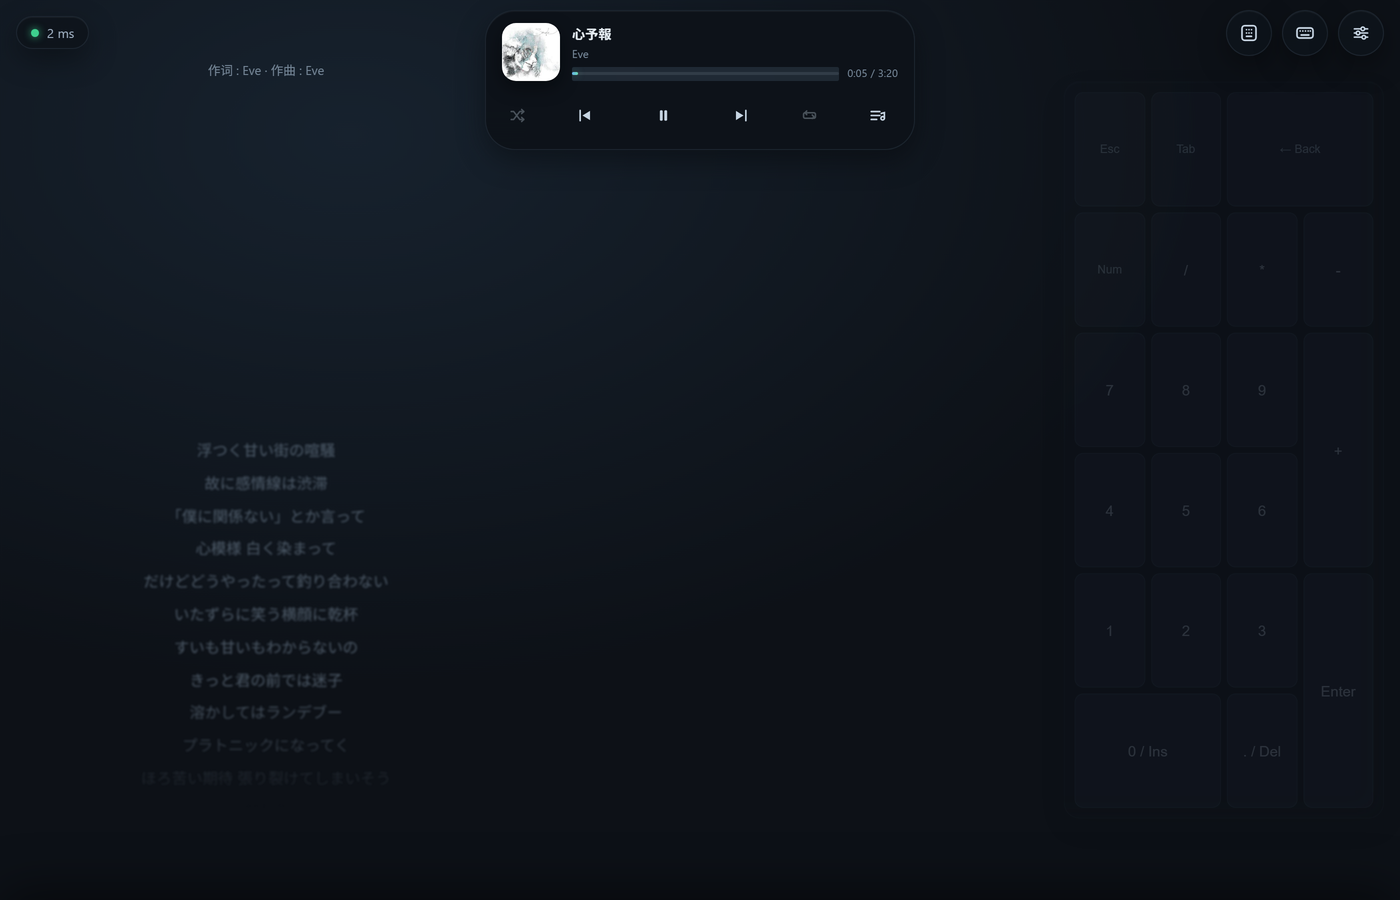
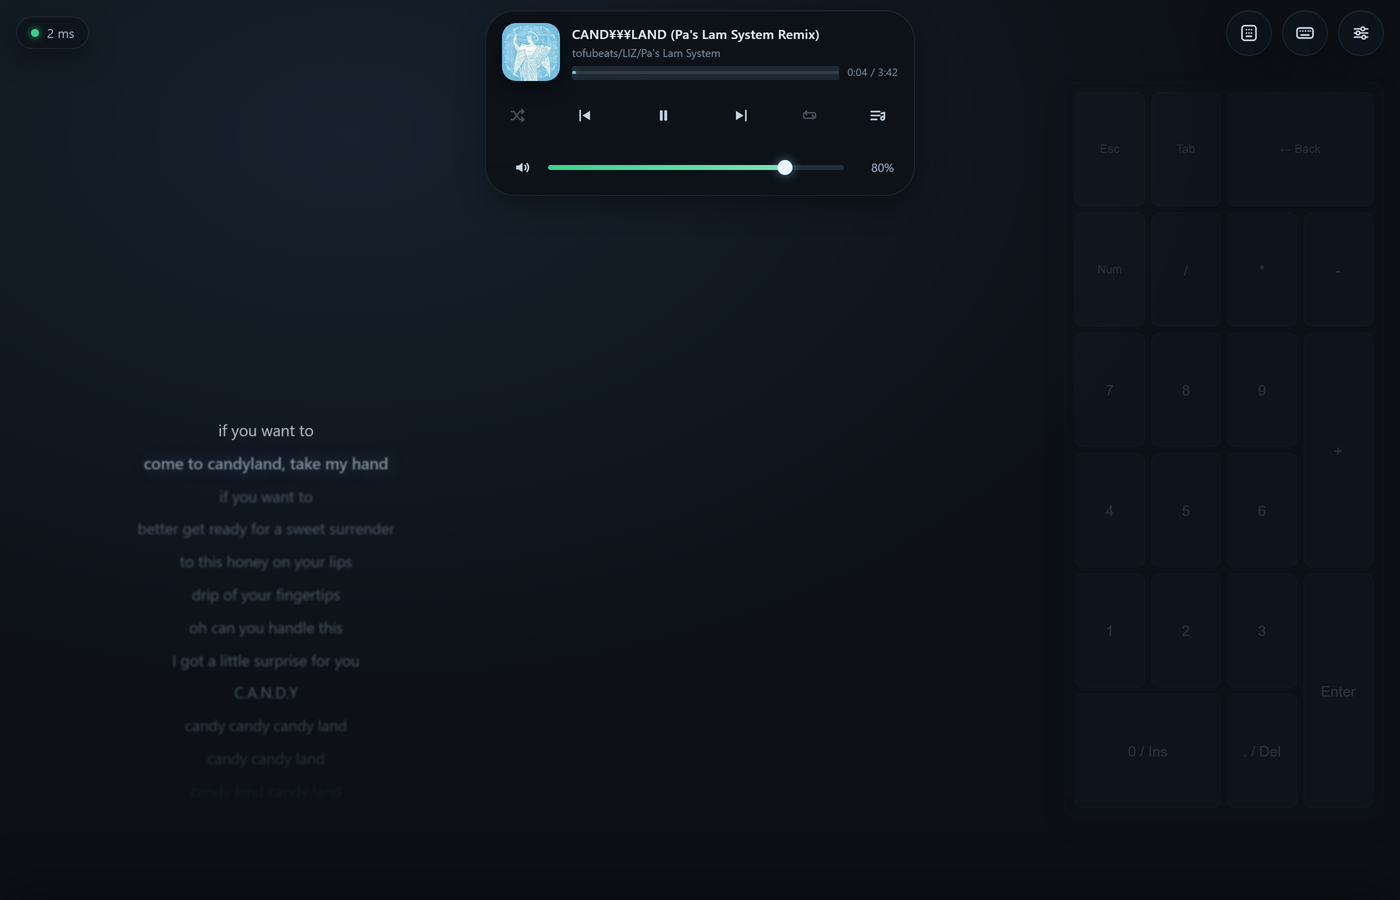
feat: 系统音量控制
媒体胶囊展开后多一行音量：
- 左边喇叭图标点一下静音/取消静音，静音时图标变橙色并打叉
- 中间滑条按住拖动直接改系统音量，松手以服务端实际值为准
- 右边显示百分比，静音时显示「静音」

实现：
- 服务端用 pycaw 的 IAudioEndpointVolume 读写主音量
- HTTP `/volume?k=[&v=0.42][&mute=1]`，WS `{t:"vol", v}` / `{t:"vol", mute}`（拖动走 WS，省往返）
- 从 0 往上拉会自动取消静音
- 客户端每 5 秒拉一次，用系统面板或键盘改音量这边也会跟上
- 拿不到 pycaw 时整行隐藏，不会出现"点了没反应"

实测：
  初始 22% → 拖到 80%（本地和服务器都是 0.8）→ 静音（UI 显示「静音」，服务器 muted:true）
  → 取消静音回到 80%，控制台无报错

顺手更新 README（特性列表、胶囊说明）和主图（现在截图里有音量条）。

diff --git a/web/app.js b/web/app.js
@@ -39,6 +39,10 @@
     ws.onerror = () => {};
     ws.onmessage = (ev) => {
       let d; try { d = JSON.parse(ev.data); } catch (_) { return; }
+      if (d.t === 'vol') {
+        applyVolume(d);
+        return;
+      }
       if (d.t === 'pong') {
         const rtt = Math.round(performance.now() - d.ts);
         rtts.push(rtt);
@@ -524,6 +528,8 @@
   }
   pollMedia();
   setInterval(pollMedia, 3000);
+  fetchVolume();
+  setInterval(fetchVolume, 5000);   // 用键盘或系统面板调了音量，这边也能跟上
   // 切到后台时定时器会被节流，回来立刻补一次，别让界面停在旧状态
   document.addEventListener('visibilitychange', () => {
     if (document.hidden) return;
@@ -792,6 +798,110 @@
       offBadge.textContent = v === 0 ? '' : '歌词偏移 ' + txt;
       offBadge.classList.toggle('on', v !== 0);
     }
+  }
+
+  // ---------------- 系统音量 ----------------
+  const volRow = document.getElementById('volRow');
+  const volBar = document.getElementById('volBar');
+  const volFill = document.getElementById('volFill');
+  const volKnob = document.getElementById('volKnob');
+  const volPct = document.getElementById('volPct');
+  const volMute = document.getElementById('volMute');
+  let volLevel = 0.5, volMuted = false, volKnown = false;
+
+  function applyVolume(d) {
+    if (!d) return;
+    if (d.ok === false) {           // 没装 pycaw：整行藏起来
+      volKnown = false;
+      if (volRow) volRow.classList.add('hide');
+      return;
+    }
+    volKnown = true;
+    if (typeof d.level === 'number') volLevel = Math.max(0, Math.min(1, d.level));
+    if (typeof d.muted === 'boolean') volMuted = d.muted;
+    paintVolume();
+  }
+
+  function paintVolume() {
+    if (!volRow) return;
+    volRow.classList.toggle('hide', !volKnown);
+    if (!volKnown) return;
+    const pct = Math.round((volMuted ? 0 : volLevel) * 100);
+    const w = (volLevel * 100) + '%';
+    volFill.style.width = w;
+    volKnob.style.left = w;
+    volPct.textContent = volMuted ? '静音' : pct + '%';
+    volMute.classList.toggle('muted', volMuted);
+    document.getElementById('volX').style.display = volMuted ? '' : 'none';
+    document.getElementById('volWave1').style.display = volMuted ? 'none' : '';
+    document.getElementById('volWave2').style.display = volMuted ? 'none' : '';
+  }
+
+  async function fetchVolume() {
+    try {
+      const r = await fetch(`/volume?k=${encodeURIComponent(KEY)}`, { cache: 'no-store' });
+      applyVolume(await r.json());
+    } catch (_) { /* 网络抖动就算了，下次轮询再来 */ }
+  }
+
+  // 拖动：本地先跟手，再按 60ms 节流发 WS
+  let volDragging = false, volLastSend = 0, volPending = -1;
+  function volRatio(e) {
+    const r = volBar.getBoundingClientRect();
+    return Math.max(0, Math.min(1, (e.clientX - r.left) / r.width));
+  }
+  function volApplyLocal(v) {
+    volLevel = v;
+    volMuted = false;
+    paintVolume();
+  }
+  function volSend(force) {
+    const now = performance.now();
+    if (!force && now - volLastSend < 60) return;
+    if (volPending < 0) return;
+    volLastSend = now;
+    send({ t: 'vol', v: volPending, mute: false });
+    volPending = -1;
+  }
+  if (volBar) {
+    volBar.addEventListener('pointerdown', (e) => {
+      if (!volKnown) return;
+      volDragging = true;
+      volBar.classList.add('dragging');
+      try { volBar.setPointerCapture(e.pointerId); } catch (_) {}
+      const v = volRatio(e);
+      volApplyLocal(v);
+      volPending = v;
+      volSend(true);
+      e.preventDefault();
+    });
+    volBar.addEventListener('pointermove', (e) => {
+      if (!volDragging) return;
+      const v = volRatio(e);
+      volApplyLocal(v);
+      volPending = v;
+      volSend(false);
+    });
+    const endDrag = (e) => {
+      if (!volDragging) return;
+      volDragging = false;
+      volBar.classList.remove('dragging');
+      if (volPending >= 0) volSend(true);
+      setTimeout(fetchVolume, 120);       // 以服务端实际值为准
+      e.preventDefault();
+    };
+    volBar.addEventListener('pointerup', endDrag);
+    volBar.addEventListener('pointercancel', endDrag);
+  }
+  if (volMute) {
+    volMute.addEventListener('click', (e) => {
+      e.stopPropagation();
+      if (!volKnown) return;
+      volMuted = !volMuted;
+      paintVolume();
+      send({ t: 'vol', mute: volMuted });
+      setTimeout(fetchVolume, 150);
+    });
   }
 
   // 手动微调歌词进度：打开页面时歌已经在播一半，就靠这个对齐

diff --git a/web/app.css b/web/app.css
@@ -190,7 +190,7 @@
 
   /* 小屏时展开态收紧一点，避免贴边 */
   @media (max-width: 640px) {
-    #island.exp { width: 94vw; height: 88px; padding-right: 6px; }
+    #island.exp { width: 94vw; height: 128px; padding-right: 6px; }
     .isle-cover.big { width: 52px; height: 52px; }
   }
 
@@ -264,7 +264,49 @@
 
   /* ---------------- 展开态：两行迷你播放器 ---------------- */
   #island.exp {
-    width: min(94vw, 430px); height: 140px; border-radius: 30px;
+    width: min(94vw, 430px); height: 186px; border-radius: 30px;
+  }
+
+  /* 展开态的音量条 */
+  .isle-vol {
+    display: flex; align-items: center; gap: 10px;
+    width: 100%; padding: 0 4px; margin-top: 2px;
+  }
+  .isle-vol.hide { display: none; }
+  .volmute {
+    width: 32px; height: 32px; flex: none; border-radius: 50%; padding: 0;
+    display: grid; place-items: center;
+    background: transparent; border: none; color: #c7d5e3;
+    transition: color .18s ease, transform .18s var(--ease-spring);
+  }
+  .volmute svg { width: 19px; height: 19px; }
+  .volmute:active { transform: scale(.86); }
+  .volmute.muted { color: #ff9f6e; }
+  /* 滑条本体：细轨 + 填充 + 圆点，触摸目标做高一点好按住 */
+  .volbar {
+    position: relative; flex: 1; height: 30px;
+    display: flex; align-items: center;
+    touch-action: none; cursor: pointer;
+  }
+  .volbar::before {
+    content: ''; position: absolute; left: 0; right: 0; height: 5px;
+    border-radius: 3px; background: rgba(120, 150, 180, .22);
+  }
+  #volFill {
+    position: absolute; left: 0; height: 5px; border-radius: 3px;
+    background: linear-gradient(90deg, #3ecf8e, #7fe0b4);
+    transition: width .12s linear;
+  }
+  #volKnob {
+    position: absolute; width: 15px; height: 15px; border-radius: 50%;
+    background: #eaf6ff; transform: translateX(-50%);
+    box-shadow: 0 0 10px rgba(130, 200, 255, .55);
+    transition: left .12s linear;
+  }
+  .volbar.dragging #volKnob { box-shadow: 0 0 16px rgba(130, 220, 255, .85); }
+  .volpct {
+    flex: none; min-width: 40px; text-align: right;
+    font-size: 12px; color: #9fb0c2; font-variant-numeric: tabular-nums;
   }
   .isle-full {
     flex-direction: column; justify-content: center; align-items: stretch;

diff --git a/web/index.html b/web/index.html
@@ -49,6 +49,18 @@
       <button class="islemode unsupported" id="modeRepeat" aria-label="循环播放"><svg viewBox="0 0 24 24" fill="none" stroke="currentColor" stroke-width="1.9" stroke-linecap="round" stroke-linejoin="round" aria-hidden="true"><path d="M6.5 8.5h11a2 2 0 0 1 2 2v3a2 2 0 0 1-2 2h-11a2 2 0 0 1-2-2v-3a2 2 0 0 1 2-2z"/><path d="M8.5 6.2 6.3 8.5l2.2 2.3"/><path d="M15.5 15.8l2.2-2.2-2.2-2.3"/></svg></button>
       <button class="islectl" id="plBtn" aria-label="歌单"><svg viewBox="0 0 24 24" fill="none" stroke="currentColor" stroke-width="2" stroke-linecap="round" aria-hidden="true"><path d="M4 7h11M4 12h11M4 17h7"/><circle cx="18.5" cy="15.5" r="2.2"/><path d="M20.7 15.5V8.4l-4 1"/></svg></button>
     </div>
+    <div class="isle-vol" id="volRow">
+      <button class="volmute" id="volMute" aria-label="静音">
+        <svg viewBox="0 0 24 24" fill="none" stroke="currentColor" stroke-width="1.9" stroke-linecap="round" stroke-linejoin="round" aria-hidden="true">
+          <path d="M4 9.5h3.2L12 6v12l-4.8-3.5H4z" fill="currentColor" stroke="none"/>
+          <path id="volWave1" d="M15.2 9.2a4 4 0 0 1 0 5.6"/>
+          <path id="volWave2" d="M17.6 7a7.4 7.4 0 0 1 0 10"/>
+          <path id="volX" d="M15.4 9.4l4.4 5.2M19.8 9.4l-4.4 5.2" style="display:none"/>
+        </svg>
+      </button>
+      <div class="volbar" id="volBar"><i id="volFill"></i><b id="volKnob"></b></div>
+      <span class="volpct" id="volPct">—</span>
+    </div>
   </div>
 </div>
 

diff --git a/server.py b/server.py
@@ -279,6 +279,17 @@ def handle_message(msg):
             act_tap(VK["back"])
     elif t == "cfg":
         _state["abs"] = bool(msg.get("abs", False))
+    elif t == "vol":
+        lv = msg.get("v")
+        mu = msg.get("mute")
+        ok = set_speaker_volume(
+            None if lv is None else float(lv),
+            None if mu is None else bool(mu))
+        level, muted = speaker_volume()
+        out = volume_payload(level, muted)
+        out["t"] = "vol"
+        out["ok"] = bool(ok and out.get("ok"))
+        return out
     elif t == "ping":
         return {"t": "pong", "ts": msg.get("ts", 0)}
     return None
@@ -766,6 +777,42 @@ def _clock_tick(key, playing):
         return _CLOCK["pos"]
 
 
+def speaker_volume():
+    """读系统主音量。返回 (0~1 的音量, 是否静音)；拿不到返回 (None, None)。"""
+    _ensure_com()
+    try:
+        from pycaw.pycaw import AudioUtilities
+        ev = AudioUtilities.GetSpeakers().EndpointVolume
+        return float(ev.GetMasterVolumeLevelScalar()), bool(ev.GetMute())
+    except Exception:
+        return None, None
+
+
+def set_speaker_volume(level=None, muted=None):
+    """设置系统主音量/静音。返回是否成功。"""
+    _ensure_com()
+    try:
+        from pycaw.pycaw import AudioUtilities
+        ev = AudioUtilities.GetSpeakers().EndpointVolume
+        if level is not None:
+            level = max(0.0, min(1.0, float(level)))
+            ev.SetMasterVolumeLevelScalar(level, None)
+            # 从 0 往上拉就直接取消静音，符合一般直觉
+            if level > 0.001 and ev.GetMute():
+                ev.SetMute(0, None)
+        if muted is not None:
+            ev.SetMute(1 if muted else 0, None)
+        return True
+    except Exception:
+        return False
+
+
+def volume_payload(level, muted):
+    if level is None:
+        return {"ok": False, "reason": "no-pycaw"}
+    return {"ok": True, "level": round(level, 3), "muted": bool(muted)}
+
+
 def query_now():
     """只回答「现在放的是哪首、在不在放」，不碰网络，够快。"""
     now = time.time()
@@ -1142,6 +1189,31 @@ class Handler(socketserver.BaseRequestHandler):
                     self._http(sock, 403, b"{}", "application/json")
                     return
                 body = json.dumps(query_now(), ensure_ascii=False).encode("utf-8")
+                self._http(sock, 200, body, "application/json; charset=utf-8")
+                return
+
+            if method == "GET" and path == "/volume":
+                if not self._key_ok(key, self.client_address[0]):
+                    self._http(sock, 403, b"{}", "application/json")
+                    return
+                raw_v = params.get("v", [None])[0]
+                raw_m = params.get("mute", [None])[0]
+                if raw_v is not None or raw_m is not None:
+                    lv = None
+                    if raw_v is not None:
+                        try:
+                            lv = float(raw_v)
+                        except ValueError:
+                            lv = None
+                        if lv is not None and lv > 1.5:      # 也接受 0~100
+                            lv = lv / 100.0
+                    mu = None
+                    if raw_m is not None:
+                        mu = raw_m not in ("0", "false", "")
+                    set_speaker_volume(lv, mu)
+                level, muted = speaker_volume()
+                body = json.dumps(volume_payload(level, muted),
+                                  ensure_ascii=False).encode("utf-8")
                 self._http(sock, 200, body, "application/json; charset=utf-8")
                 return
 

diff --git a/README.md b/README.md
@@ -28,6 +28,7 @@ PC 端跑一个纯标准库的 Python 脚本，平板用浏览器连上，手指
 - **走电脑输入法**：网页自绘键盘只发按键，拼音候选框出现在电脑上，用的还是你熟悉的词库
 - **四种键盘形态**：抽屉 / 全屏（滑动当触控板）/ 分屏 / 环绕
 - **媒体胶囊**：歌名/封面/播放控制、可拖进度条、歌单浏览、随机与循环
+- **系统音量**：展开胶囊后可拖滑块调音量、一键静音，和电脑音量实时同步
 - **歌词两件套**：左侧滚动歌词 + 全屏模糊封面背景，都能单独关掉
 - **可调手感**：灵敏度、滚轮速度、指针加速、滚动方向、绝对定位
 - **访问码保护**：同一网段的其他设备不能随便连
@@ -171,6 +172,8 @@ Ctrl  Win  Alt  [    空格    ]  Alt  Fn  菜单  Ctrl ← ↓ →
 - 播放中律动条会跳动并显示暂停图标，暂停时律动条静止、图标变成播放
 - 没有播放内容时整个胶囊淡出收起，检测到播放再缩放淡入
 - **进度条可拖动**：松手后调用系统媒体控制跳转，只对支持 GSMTC 的播放器有效
+- **音量条**：展开态最下面一行，左边喇叭点一下静音，滑条按住拖动直接改系统音量
+  （走 `IAudioEndpointVolume`，需要 `pycaw`；没装就整行隐藏，不会出现点了没反应）
 - **歌单**：读网易云本地库（`webdb.dat`）里的歌单和曲目，只读浏览
 - **随机 / 循环**：读写 GSMTC 的 `ShuffleEnabled` / `AutoRepeatMode`，循环三态（关→列表→单曲）
 - 播放器的能力不一致，界面上会**如实反映**：不支持的按钮置灰，点了给提示，不会假装成功

diff --git a/交接文档.md b/交接文档.md
@@ -380,6 +380,14 @@ eleases/latest 的 rowser_download_url 下载一遍，
 比对 sha256 与本地 zip 是否一致。
 
 
+## 系统音量
+
+- `GET /volume?k=` → `{"ok":true,"level":0.42,"muted":false}`（`ok:false` = 没装 pycaw）
+- `GET /volume?k=&v=0.42` 或 `&v=42` 设置；`&mute=1` / `&mute=0` 静音
+- WS `{t:"vol", v:0.42}` / `{t:"vol", mute:true}`，拖动时走这条（省一次 HTTP 往返）
+- 实现：`speaker_volume()` / `set_speaker_volume()`，用 pycaw 的 `IAudioEndpointVolume`
+- 从 0 往上拉会自动取消静音；客户端每 5 秒拉一次，用系统面板改音量这边也会跟上
+
 ## README 截图怎么重新生成
 
 截图和动图放在 `docs/`，是脚本抓的，不是手截的：
